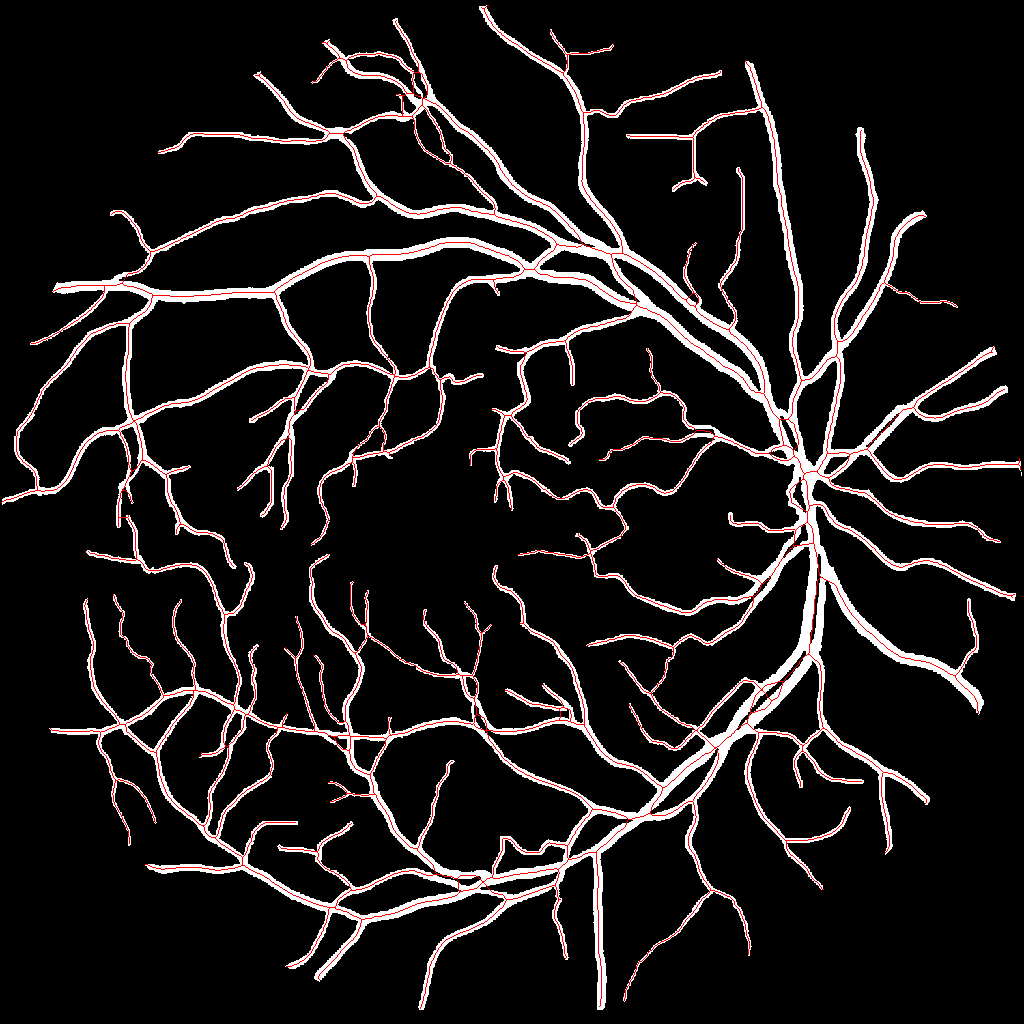
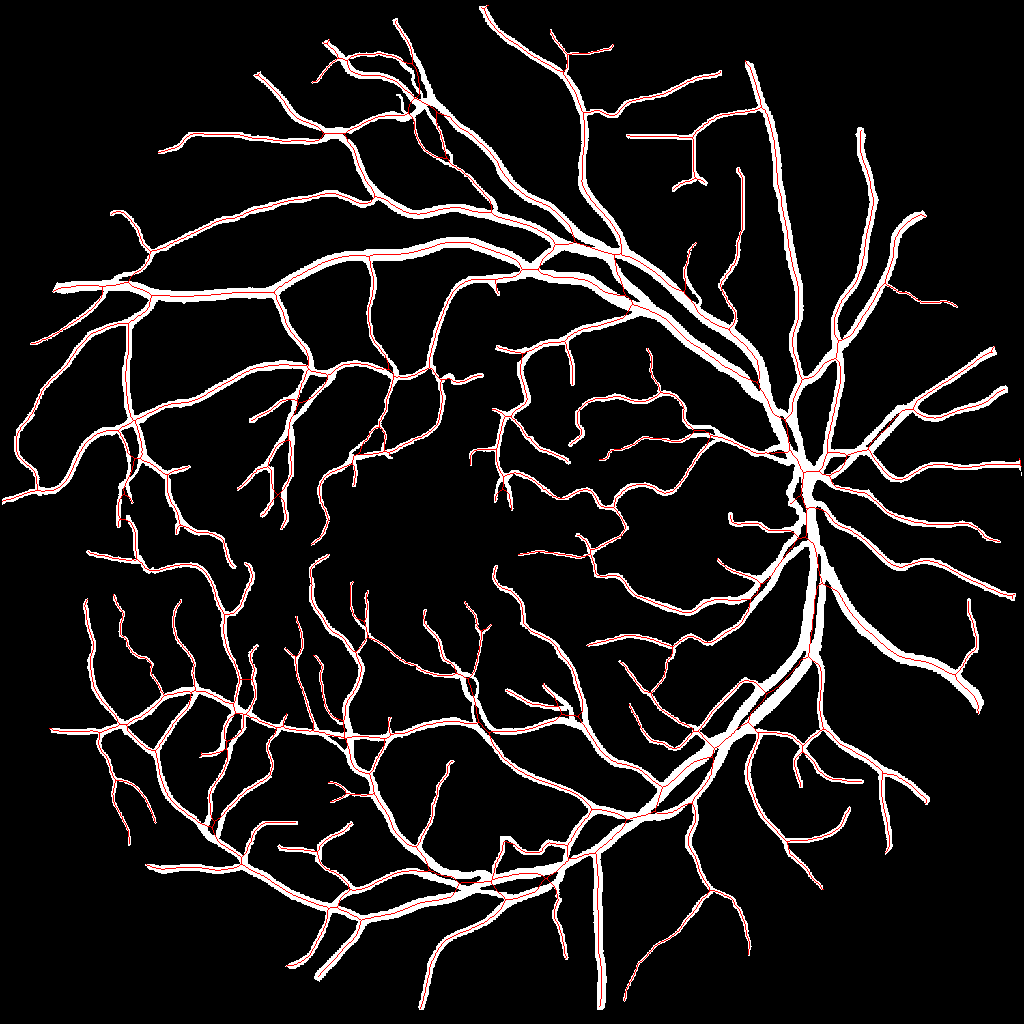
morphological cleanup parameters and add function to enforce single-pixel width in skeletonization

diff --git a/src/skeletonize_vessels.py b/src/skeletonize_vessels.py
@@ -44,7 +44,7 @@ def make_filled_mask(img, method="otsu", block_size=35, offset=0.0):
     return mask.astype(bool)
 
 
-def morphological_cleanup(mask, min_size=64, hole_size=64, closing_radius=3):
+def morphological_cleanup(mask, min_size=150, hole_size=150, closing_radius=5):
     """Remove small objects, fill small holes, and optionally close small gaps.
 
     After this step the vessels should be solid, filled regions.
@@ -58,12 +58,48 @@ def morphological_cleanup(mask, min_size=64, hole_size=64, closing_radius=3):
     return cleaned.astype(bool)
 
 
+def enforce_single_pixel_width(skel):
+    """Remove pixels from 2x2 blocks to enforce strict 1-pixel-wide skeleton.
+    
+    Detects 2x2 all-True blocks and removes pixels to break the block
+    while preserving connectivity.
+    """
+    result = skel.copy()
+    height, width = skel.shape
+    
+    # Scan for 2x2 blocks and break them
+    changed = True
+    iterations = 0
+    max_iterations = 10
+    
+    while changed and iterations < max_iterations:
+        changed = False
+        iterations += 1
+        
+        # Detect 2x2 blocks
+        if height > 1 and width > 1:
+            a = result[:-1, :-1] & result[1:, :-1] & result[:-1, 1:] & result[1:, 1:]
+            if np.any(a):
+                changed = True
+                # For each 2x2 block, remove the lower-right pixel
+                to_remove = np.zeros_like(result, dtype=bool)
+                for i in range(height - 1):
+                    for j in range(width - 1):
+                        if a[i, j]:
+                            to_remove[i+1, j+1] = True
+                result = result & (~to_remove)
+    
+    return result.astype(bool)
+
+
 def compute_skeleton(vessel_mask):
     """Skeletonize a filled boolean vessel mask using skimage.morphology.skeletonize.
 
     Input must be boolean; output is boolean skeleton with single-pixel-wide centerlines.
+    Then enforce strict 1-pixel width by removing 2x2 blocks.
     """
     skel = skeletonize(vessel_mask)
+    skel = enforce_single_pixel_width(skel)
     return skel.astype(bool)
 
 
@@ -128,9 +164,9 @@ def main():
     parser.add_argument("--input", required=True, help="Path to input image (black background, white vessels)")
     parser.add_argument("--outdir", default=".", help="Directory to write outputs")
     parser.add_argument("--threshold", choices=['otsu', 'adaptive'], default='otsu')
-    parser.add_argument("--min_size", type=int, default=64, help="Min size to keep objects (pixels)")
-    parser.add_argument("--hole_size", type=int, default=64, help="Max hole area to fill (pixels)")
-    parser.add_argument("--closing_radius", type=int, default=3, help="Disk radius for closing (0 to skip)")
+    parser.add_argument("--min_size", type=int, default=150, help="Min size to keep objects (pixels)")
+    parser.add_argument("--hole_size", type=int, default=150, help="Max hole area to fill (pixels)")
+    parser.add_argument("--closing_radius", type=int, default=5, help="Disk radius for closing (0 to skip)")
     args = parser.parse_args()
 
     os.makedirs(args.outdir, exist_ok=True)
